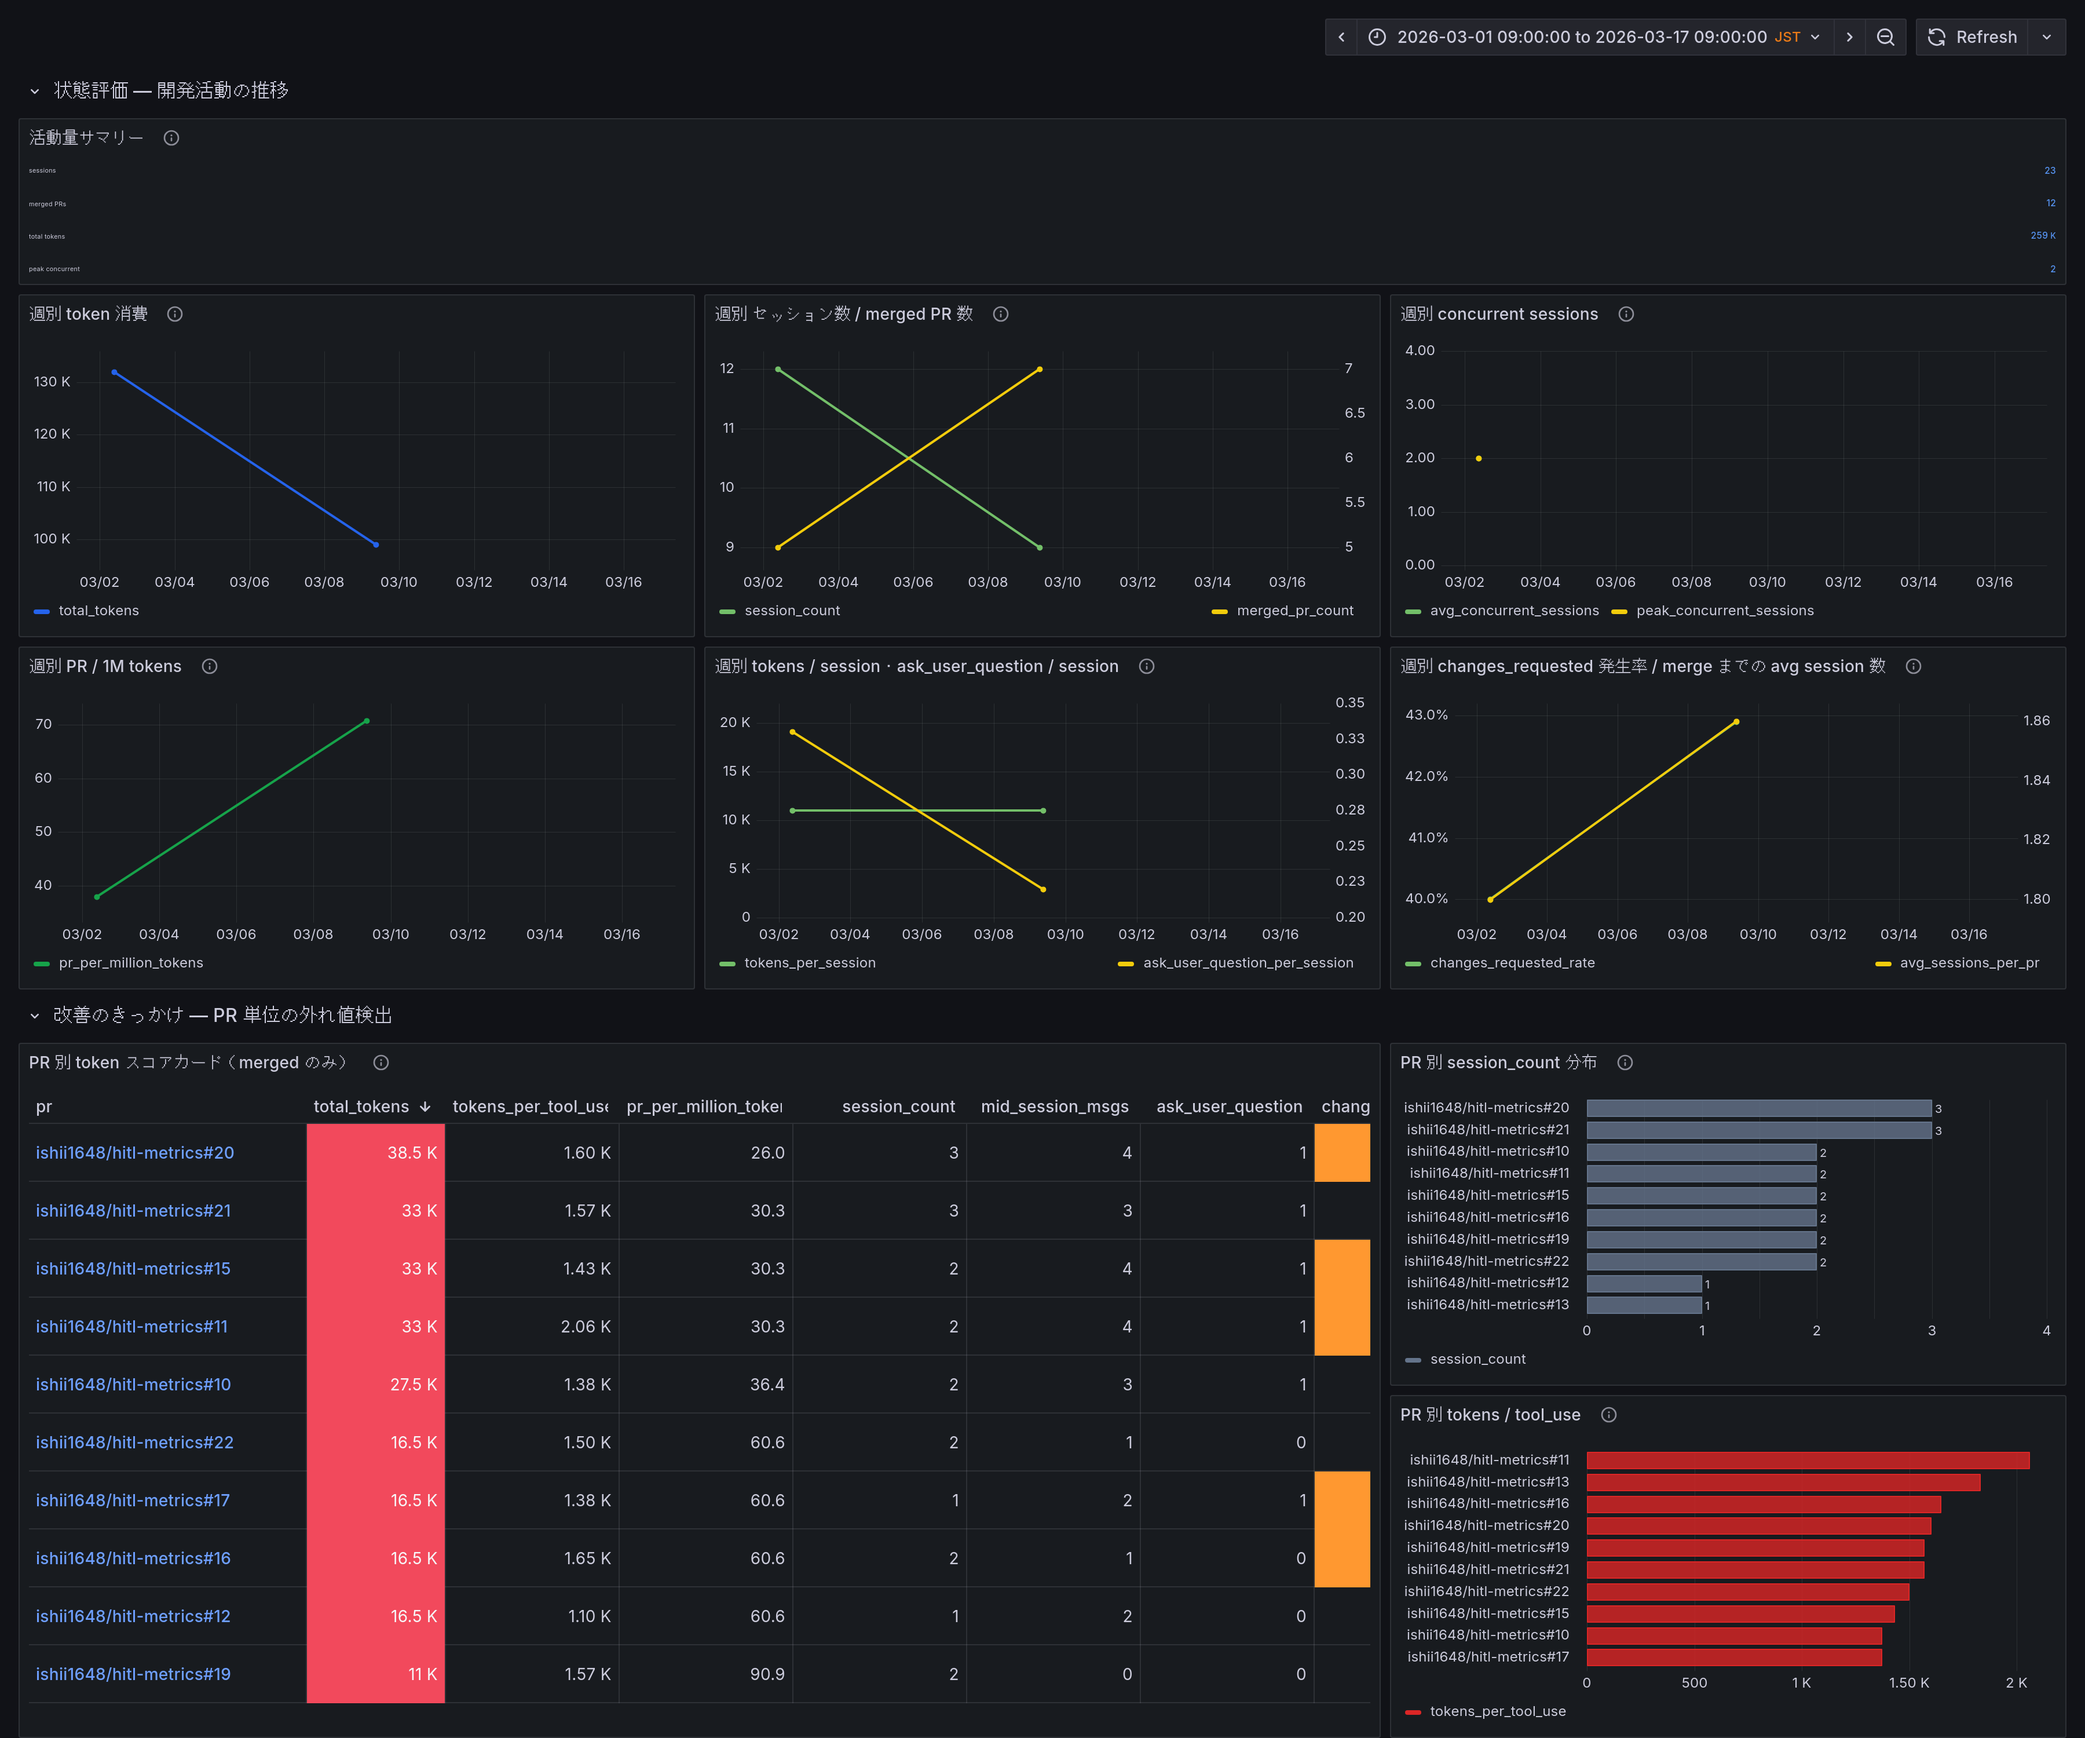
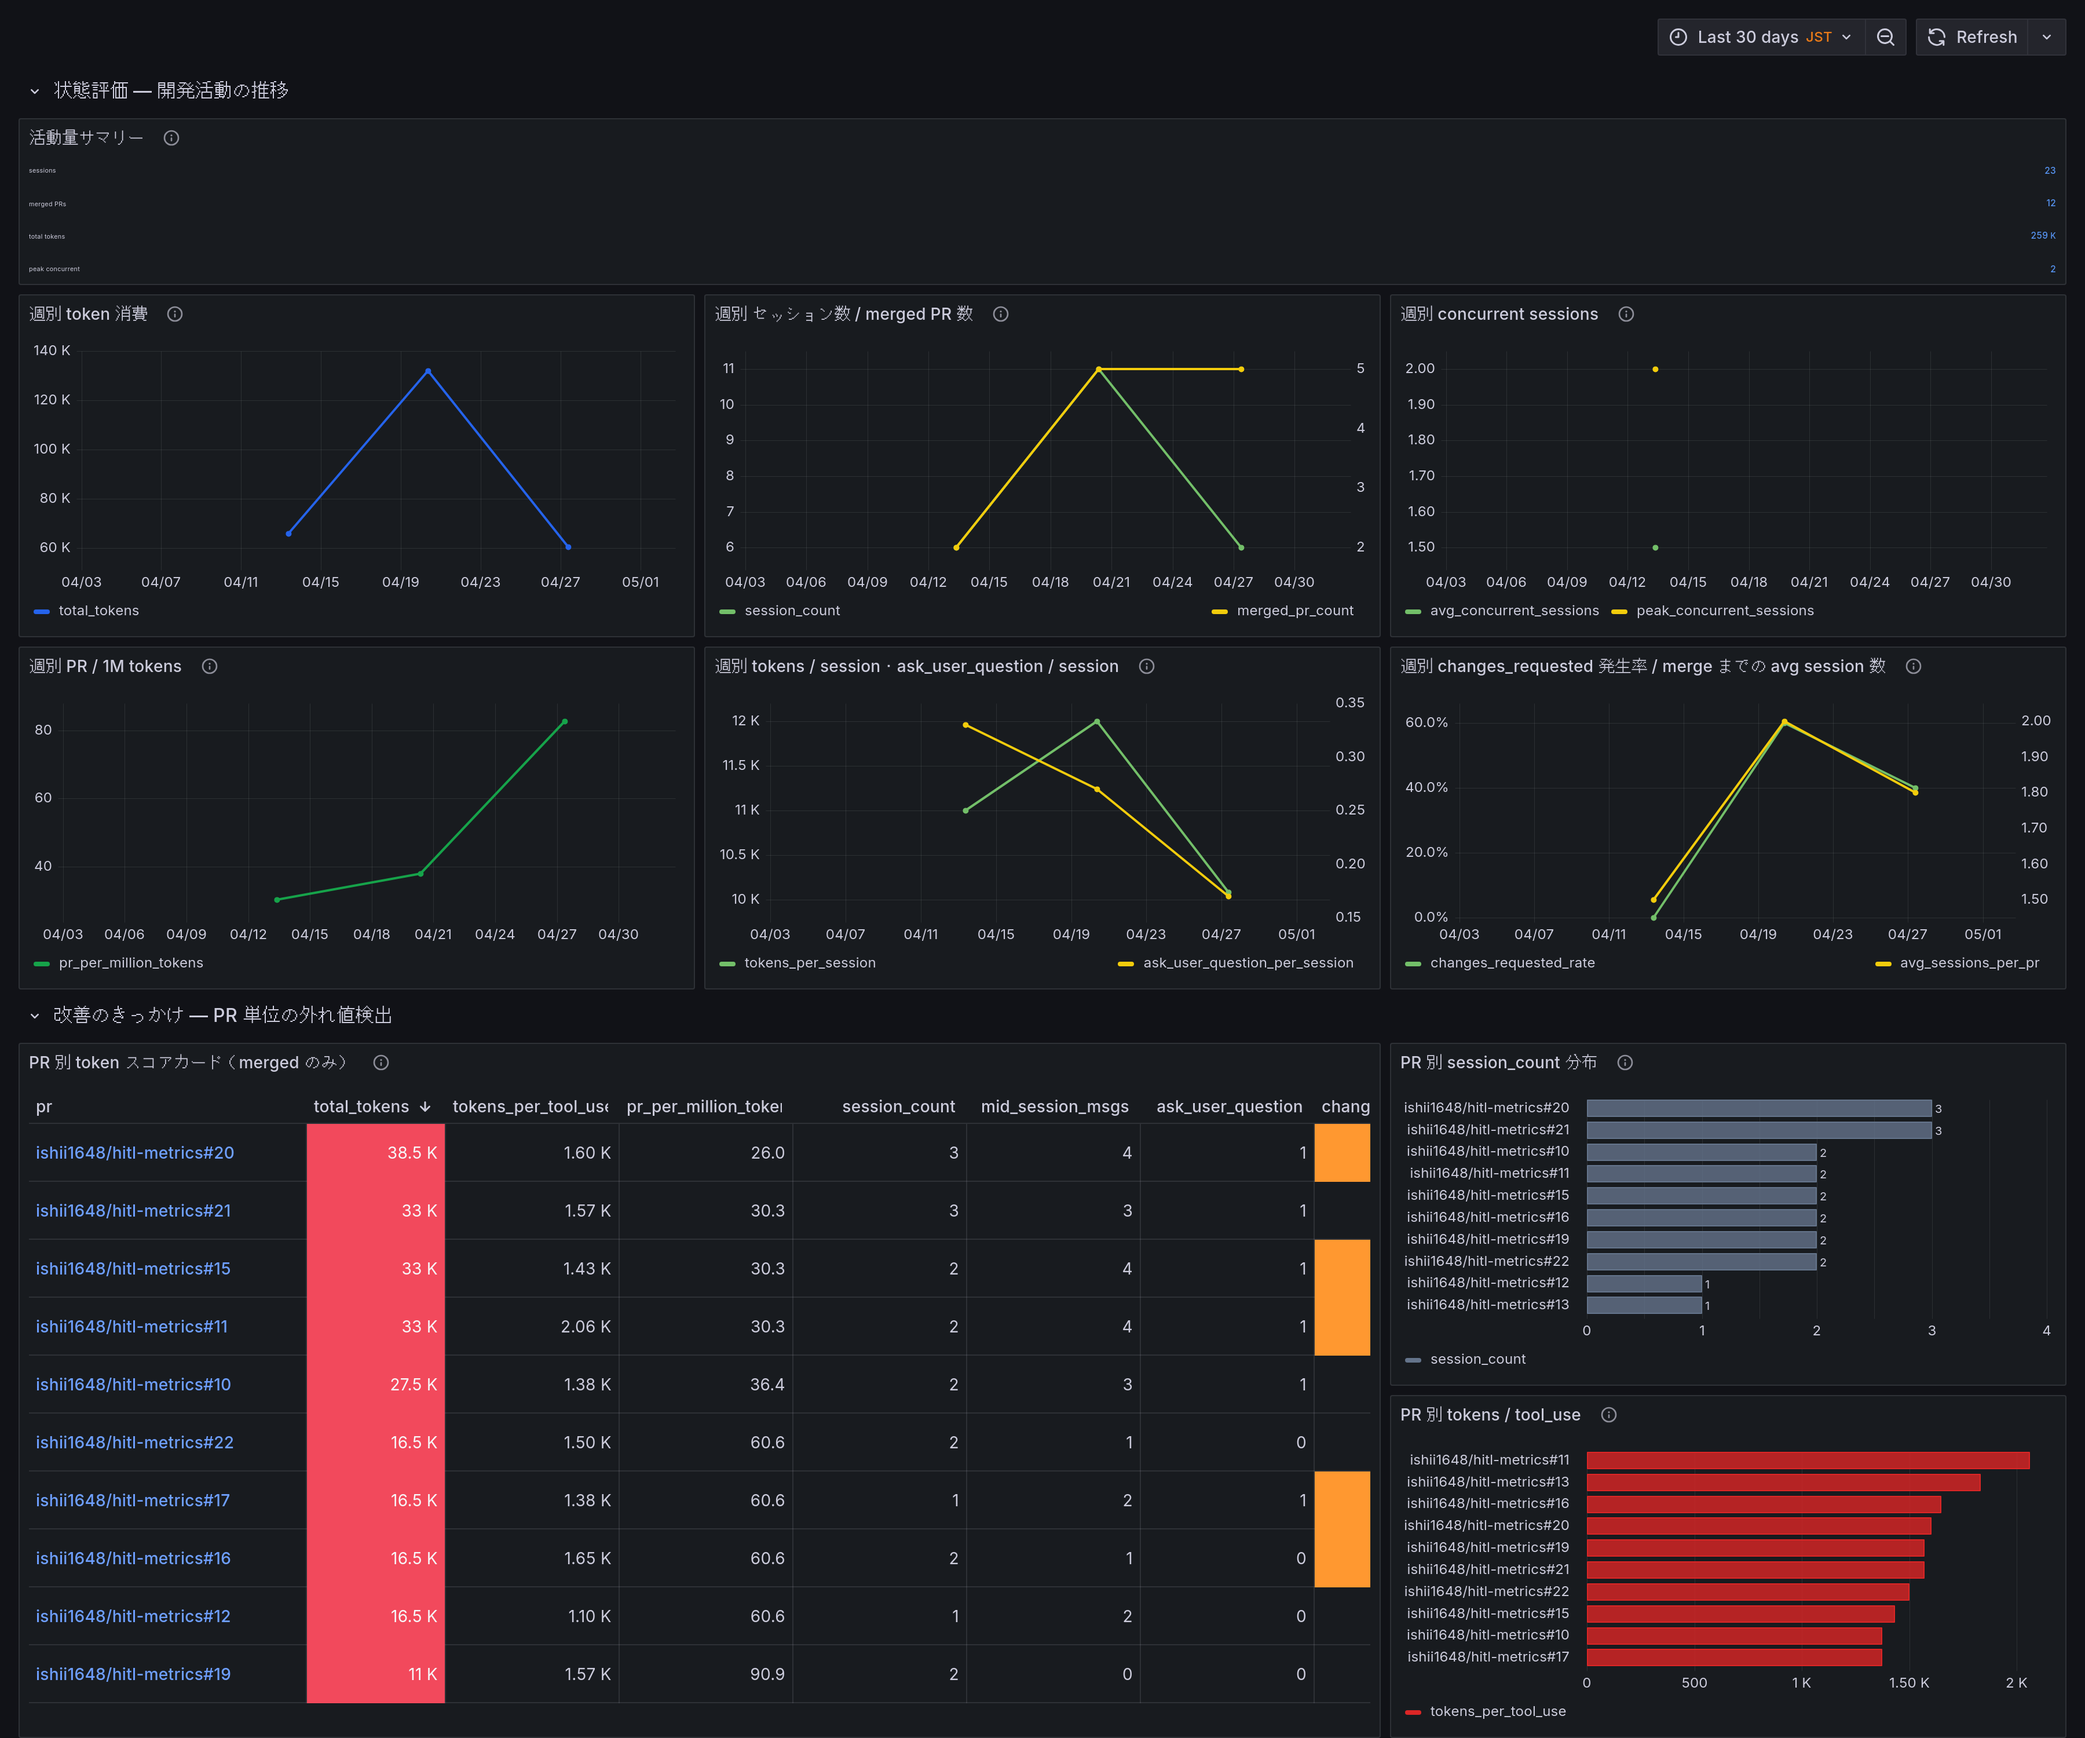
test(e2e): fixture timestamp を実行時相対化して Grafana で常に表示できるようにする
intent(fixture): fixture の timestamp が固定 (2026-03 範囲) で、Grafana を直接開くと Last 30 days のデフォルト range と重ならず空表示になっていた
decision(fixture-shift): gen_testdb_test.go で fixture の最新 timestamp が time.Now().UTC() に揃うよう一律オフセットを掛ける — fixture JSONL は固定日付のままで diff/レビューが安定し、生成 DB は常に最新 30 日に収まる
decision(screenshot-relative): screenshot.sh の from/to を `now-30d` / `now` に変更 — fixture の動的シフトと整合
rejected(fixture-rewrite): fixture JSONL の固定日付自体を都度書き換える案 — git diff が日々変動して実質メンテ不能、レビューも困難

Changed region(s): [[0.6533, 0.0, 0.8711, 0.031], [0.6844, 0.31, 0.7156, 0.341]]

diff --git a/e2e/gen_testdb_test.go b/e2e/gen_testdb_test.go
@@ -7,6 +7,7 @@ import (
 	"path/filepath"
 	"strings"
 	"testing"
+	"time"
 
 	"github.com/ishii1648/hitl-metrics/internal/syncdb"
 )
@@ -22,9 +23,8 @@ func TestGenTestDB(t *testing.T) {
 	indexPath := filepath.Join(projectRoot, "e2e", "testdata", "session-index.jsonl")
 	dbPath := filepath.Join(projectRoot, "e2e", "testdata", "hitl-metrics.db")
 
-	// Create a temporary session-index.jsonl with absolute transcript paths.
 	tmpIndex := filepath.Join(t.TempDir(), "session-index.jsonl")
-	if err := rewriteTranscriptPaths(indexPath, tmpIndex, projectRoot); err != nil {
+	if err := rewriteFixture(indexPath, tmpIndex, projectRoot, time.Now().UTC()); err != nil {
 		t.Fatal(err)
 	}
 
@@ -32,7 +32,6 @@ func TestGenTestDB(t *testing.T) {
 		t.Fatal(err)
 	}
 
-	// Verify DB was created
 	info, err := os.Stat(dbPath)
 	if err != nil {
 		t.Fatal(err)
@@ -40,26 +39,25 @@ func TestGenTestDB(t *testing.T) {
 	t.Logf("Generated %s (%d bytes)", dbPath, info.Size())
 }
 
-// rewriteTranscriptPaths reads src JSONL, resolves relative transcript paths
-// against root, and writes the result to dst.
-func rewriteTranscriptPaths(src, dst, root string) error {
+// rewriteFixture reads the fixture JSONL, resolves relative transcript paths,
+// and shifts every timestamp / ended_at by a single offset so the latest entry
+// lands at refTime. This keeps the fixture readable as fixed dates while making
+// the generated DB always fall within "Last 30 days" at test execution time.
+func rewriteFixture(src, dst, root string, refTime time.Time) error {
 	in, err := os.Open(src)
 	if err != nil {
 		return err
 	}
 	defer in.Close()
 
-	out, err := os.Create(dst)
-	if err != nil {
-		return err
-	}
-	defer out.Close()
-
-	w := bufio.NewWriter(out)
 	scanner := bufio.NewScanner(in)
 	scanner.Buffer(make([]byte, 1024*1024), 1024*1024)
 
-	first := true
+	type entry struct {
+		raw map[string]interface{}
+	}
+	var entries []entry
+	var maxTS time.Time
 	for scanner.Scan() {
 		line := strings.TrimSpace(scanner.Text())
 		if line == "" {
@@ -69,18 +67,48 @@ func rewriteTranscriptPaths(src, dst, root string) error {
 		if err := json.Unmarshal([]byte(line), &m); err != nil {
 			continue
 		}
+		entries = append(entries, entry{raw: m})
+		for _, key := range []string{"timestamp", "ended_at"} {
+			if s, ok := m[key].(string); ok && s != "" {
+				if t, err := time.Parse(time.RFC3339, s); err == nil && t.After(maxTS) {
+					maxTS = t
+				}
+			}
+		}
+	}
+	if err := scanner.Err(); err != nil {
+		return err
+	}
+
+	offset := refTime.Sub(maxTS)
+
+	out, err := os.Create(dst)
+	if err != nil {
+		return err
+	}
+	defer out.Close()
+	w := bufio.NewWriter(out)
+
+	for i, e := range entries {
+		m := e.raw
 		if t, ok := m["transcript"].(string); ok && t != "" && !filepath.IsAbs(t) {
 			m["transcript"] = filepath.Join(root, t)
+		}
+		for _, key := range []string{"timestamp", "ended_at"} {
+			if s, ok := m[key].(string); ok && s != "" {
+				if t, err := time.Parse(time.RFC3339, s); err == nil {
+					m[key] = t.Add(offset).UTC().Format(time.RFC3339)
+				}
+			}
 		}
 		rewritten, err := json.Marshal(m)
 		if err != nil {
 			continue
 		}
-		if !first {
+		if i > 0 {
 			w.WriteByte('\n')
 		}
 		w.Write(rewritten)
-		first = false
 	}
 	w.WriteByte('\n')
 	return w.Flush()

diff --git a/CHANGELOG.md b/CHANGELOG.md
@@ -13,6 +13,7 @@ hitl-metrics の変更履歴。新しいものが上。
   - schema に週別集計 view (`pr_merged_at_approx`, `weekly_pr_metrics`, `weekly_session_metrics`) を追加
   - `task_type` 列を全 table から削除（ADR-024）— branch 命名規約に依存し脆い指標。hitl-metrics は定量指標で状態評価・問題特定を行うツールであり、PR の定性評価は LLM に委ねる方針
   - `pr_merged_at_approx` view を `ended_at` 欠損時に session timestamp で代替するよう変更 — hook 未実装・abort・強制終了でも拾える
+  - e2e fixture の timestamp をテスト実行時を基準にシフトするよう変更 — Grafana を直接開いても Last 30 days のデフォルト range で常にデータが描画される
 
 ## 2026-04-27
 
